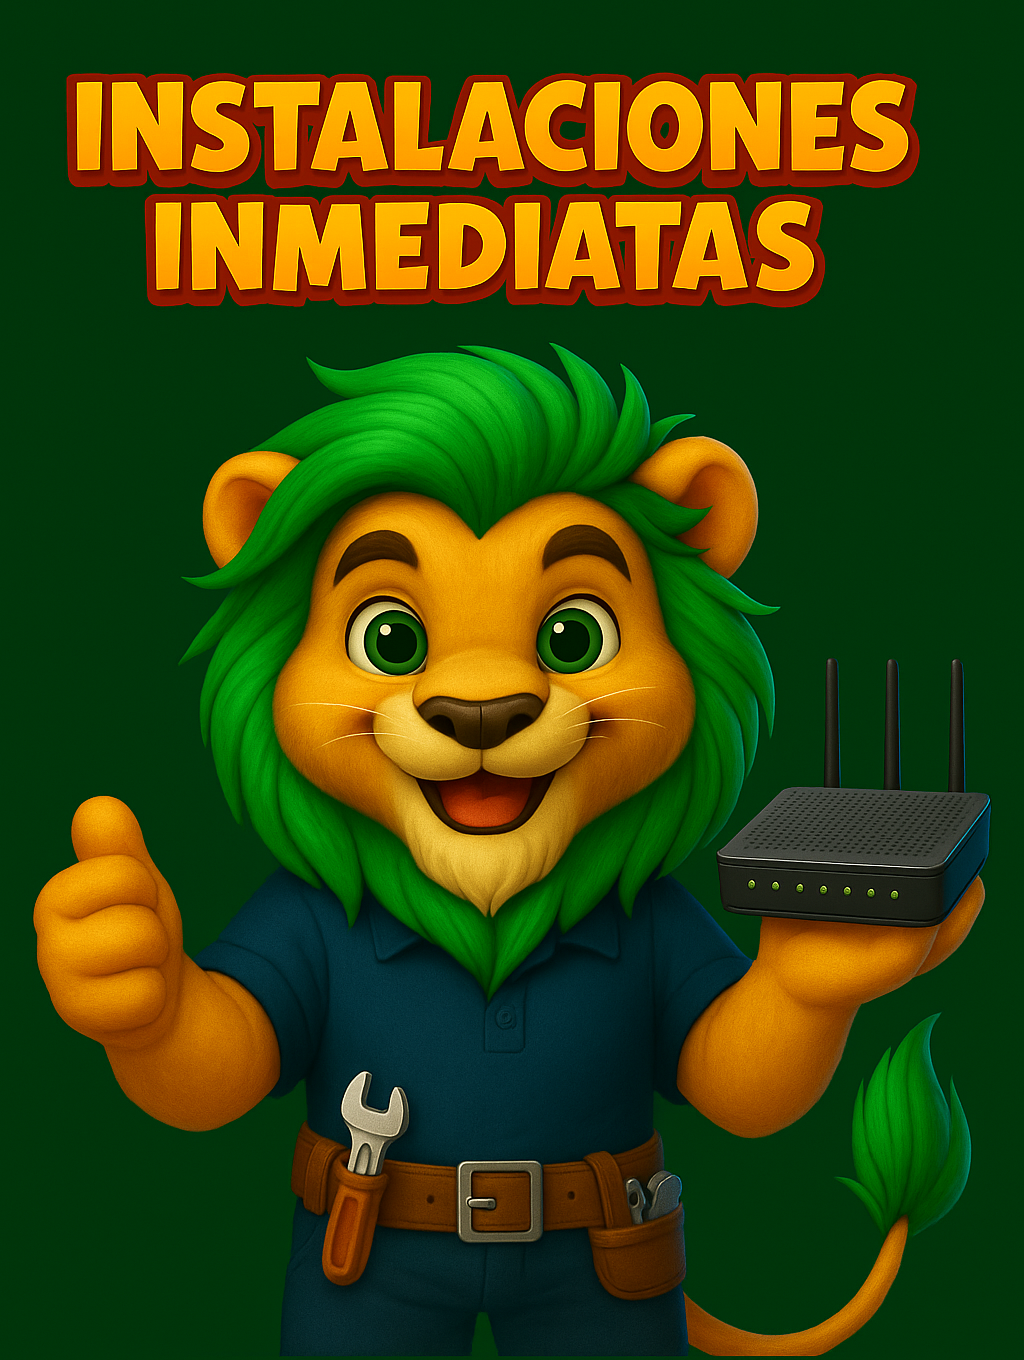
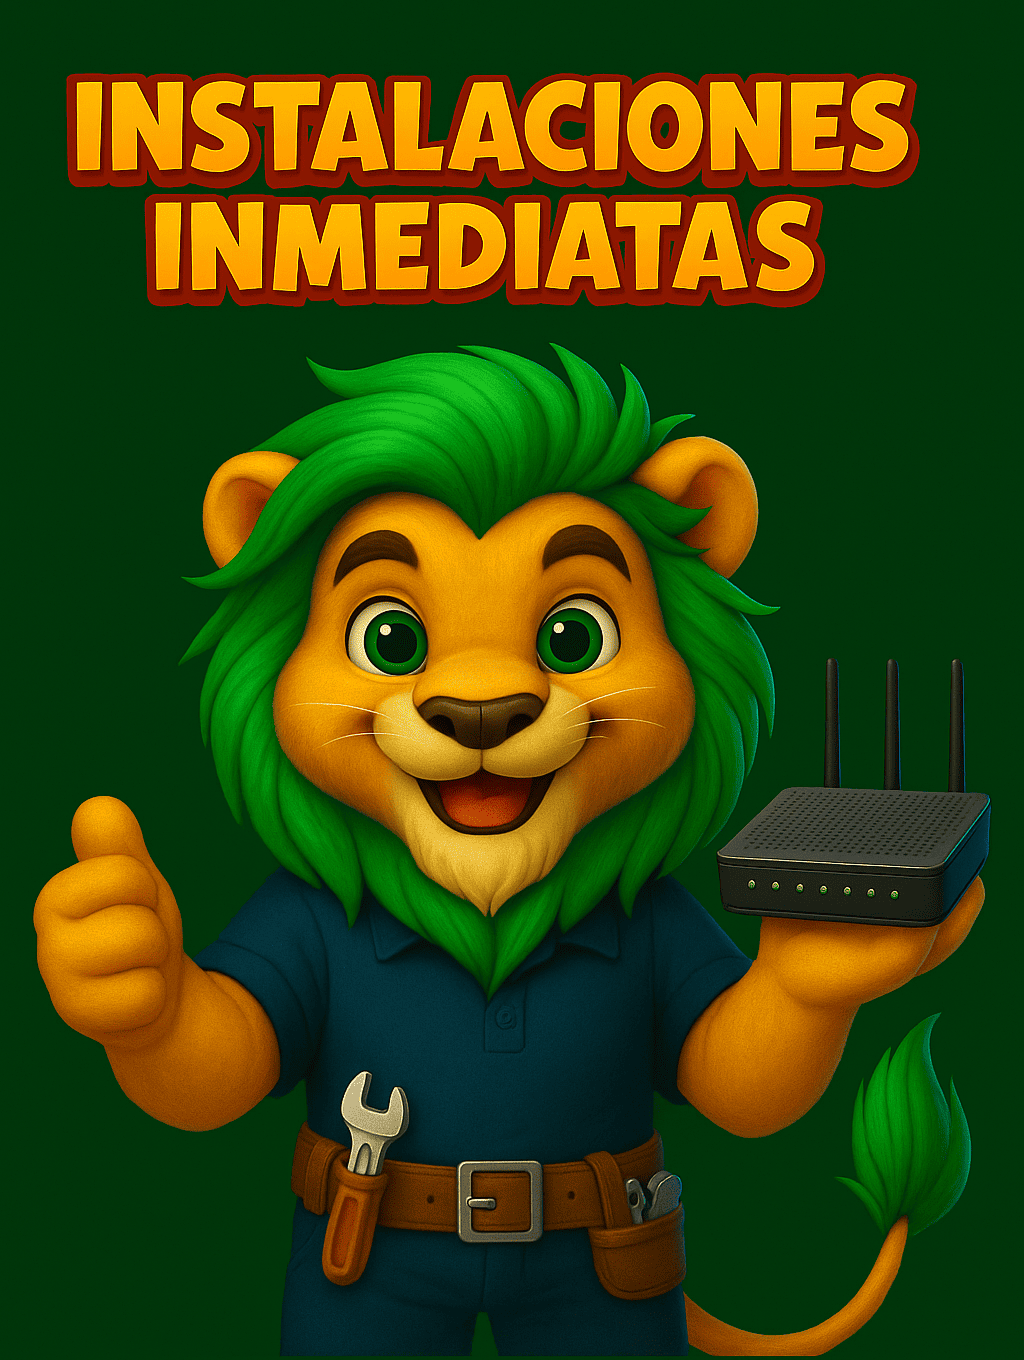
comprimir imagenes

diff --git a/vite.config.js b/vite.config.js
@@ -1,8 +1,18 @@
 import { defineConfig } from 'vite'
 import react from '@vitejs/plugin-react'
+import { ViteImageOptimizer } from 'vite-plugin-image-optimizer'
 
-// https://vite.dev/config/
 export default defineConfig({
-  plugins: [react()],
-  base: '/pagina_webPipo/', // nombre del repositorio para despliegue (github)
+  plugins: [
+    react(),
+    ViteImageOptimizer({
+      // ajustes recomendados
+      png: { quality: 75 },
+      jpeg: { quality: 75 },
+      webp: { quality: 75 },
+      avif: { quality: 60 },
+      // puedes ajustar según pruebas
+    }),
+  ],
+  base: '/pagina_webPipo/',
 })
